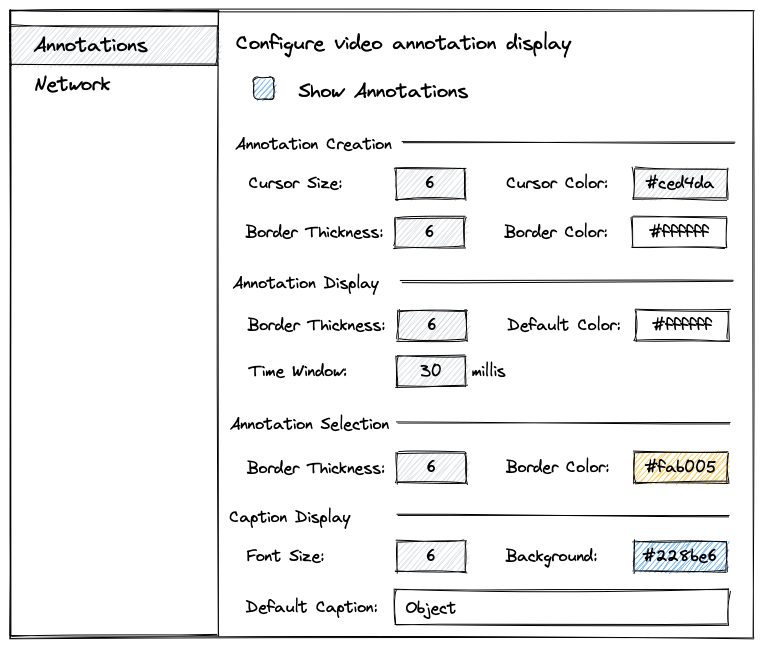
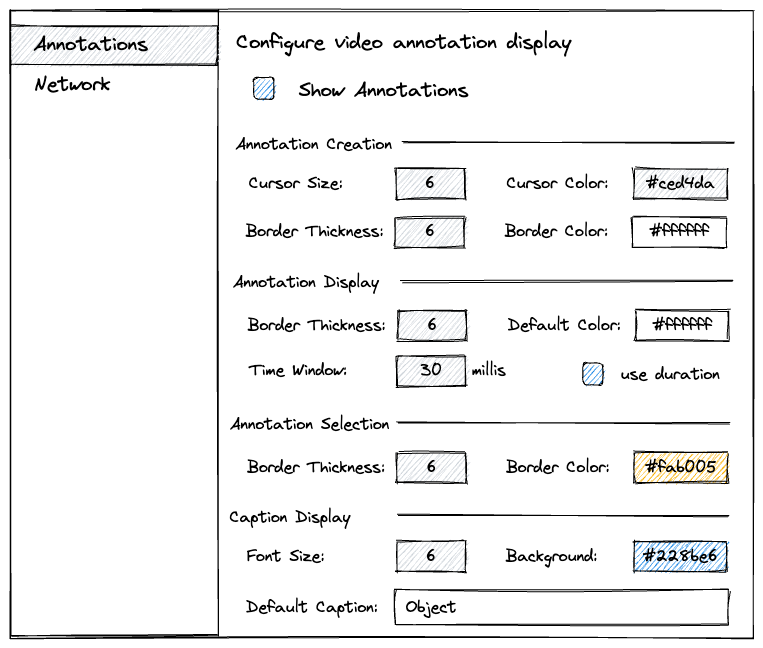
Updated with Kevin's last round of UI comments

diff --git a/docs/requirements/Sharktopoda 2/UI.md b/docs/requirements/Sharktopoda 2/UI.md
@@ -28,12 +28,22 @@ When preferences is opened it will display a window with the tabs/sections shown
 
 ### Annotations
 
+Each annotation can be displayed in one of five states:
+
+1. Creation
+2. Normal
+3. Selected
+4. Edited
+5. Not displayed
+
+The preferences dialog sets the properties for how each state is drawn.
+
 ![Annotation Preferences](assets/Prefs_Annotations.png)
 
 This section specifies how localizations (i.e. annotations) are drawn and represented over video. Most should be obvious but here are additional details on the non-obvious ones:
 
 - __Show annotations check box__: When checked localizations are displayed over top of the video. When unchecked, no localizations are displayed/drawn.
-- __Annotation Display > Time Window__: This defines how long a localization should be displayed. The time to display the localization is from `annotation.elapsedTimeMillis - timeWindow / 2.0` to `annotation.elapsedTimeMillis + timeWindow / 2.0`. (e.g. if `elapsedTimeMillis = 1000` and `timeWindow = 30`, the localization for the annotation should be drawn when the video is showing frames between 985 and 1015 milliseconds from the start of the video.
+- __Annotation Display > Time Window__: This defines how long a localization should be displayed. The time to display the localization is from `annotation.elapsedTimeMillis - timeWindow / 2.0` to `annotation.elapsedTimeMillis + timeWindow / 2.0`. (e.g. if `elapsedTimeMillis = 1000` and `timeWindow = 30`, the localization for the annotation should be drawn when the video is showing frames between 985 and 1015 milliseconds from the start of the video. This behavior can be modified by the _use duration_ checkbox. (See [Annotation Display](#annotation-display))
 
 #### Annotation Creation
 
@@ -43,9 +53,13 @@ When a new annotation is created this section determines properties of the bound
 
 This section specifies the properties for an annotation _after_ it has been drawn on the video. By default an annotation is drawn using a the _Default color_ but each annotation may have it's own unique color assigned. Alternatively, all annotations can have a color assigned, when an annotation is created it get's assigned the default color.
 
+When the `use display` check box is selected, annotations are no longer drawn just using the global _Time Window_. Instead, the individual duration for an annotation is applied so the the display time for an annotation becomes `annotation.elapsedTimeMillis` to `annotation.elapsedTimeMillis + annotation.durationMillis`
+
 #### Annotation Selection
 
 This specifies the display of _selected_ annotations. Annotations can be selected, either by receiving a command via UPD or by clicking on the localization's border on top of the video.
+
+When only a single annotation is selected. It become [editable](#editing-a-localization). It should be drawn using like selected annotation, but it should also show an indicator that it is editable. Common editing features in other apps are hot corners (little rectangles), circles on the corners, handles on the edges or an opaque fill to indicate the rectangle can be moved or resized. We are flexible in how the editing UI is implemented in Sharktopoda.
 
 ### Network
 
@@ -61,7 +75,9 @@ The video window can be a standard AVKit window. Floating playback controls shou
 
 When a user clicks on the video (not the video controls) it begins a localization action. All localization actions initiate by the video player should immediately pause video playback. Localization actions [initiated by the remote app](UDP_Remote_Protocol.md#incoming-commands) should NOT pause video playback.
 
-### Selecting a localization 
+
+
+### Selecting a localization
 
 If the user clicks on the border of an existing localization, that single localization should be [selected](UDP_Remote_Protocol.md#select-localizations) and become editable, allowing a user to resize or move the localization.
 
@@ -75,7 +91,7 @@ Whenever a selection action completes a [select](UDP_Remote_Protocol.md#select-l
 
  The following events set the new coordianates of the localization and send an [update](UDP_Remote_Protocol.md#localizationss-modified) of the localization to the remote app:
 
-- The user hits enter or other definable key if enter can't be used. If we can't use enter, allows the key to be set in preferences.
+- The user hits enter or other definable key if enter can't be used. If we can't use enter, allow the key to be set in preferences. The key setting should be in another preferences pane (e.g. Keys, this is in addition to the Annotations and Network panes.)
 - The video leaves the paused state.
 - The user clicks on another localization.
 - The user single clicks on the video anywhere other than the border/control points of the editable localization.

diff --git a/docs/requirements/Sharktopoda 2/UDP_Remote_Protocol.md b/docs/requirements/Sharktopoda 2/UDP_Remote_Protocol.md
@@ -127,7 +127,7 @@ Note, the response is always "ok".
 
 ### -- Open
 
-Opens the specified video in a new window. The application should associate the URL and UUID with the window. (More on that later).
+Opens the specified video in a new window. The application should associate the URL and UUID with the window. (More on that later). If a new window is opened, the video should be immediately paused. (We don't want the video to autoplay when it is first opened)
 
 If a window with the UUID already exits, treat the open command as "show" command below, and a success response returned.
 
